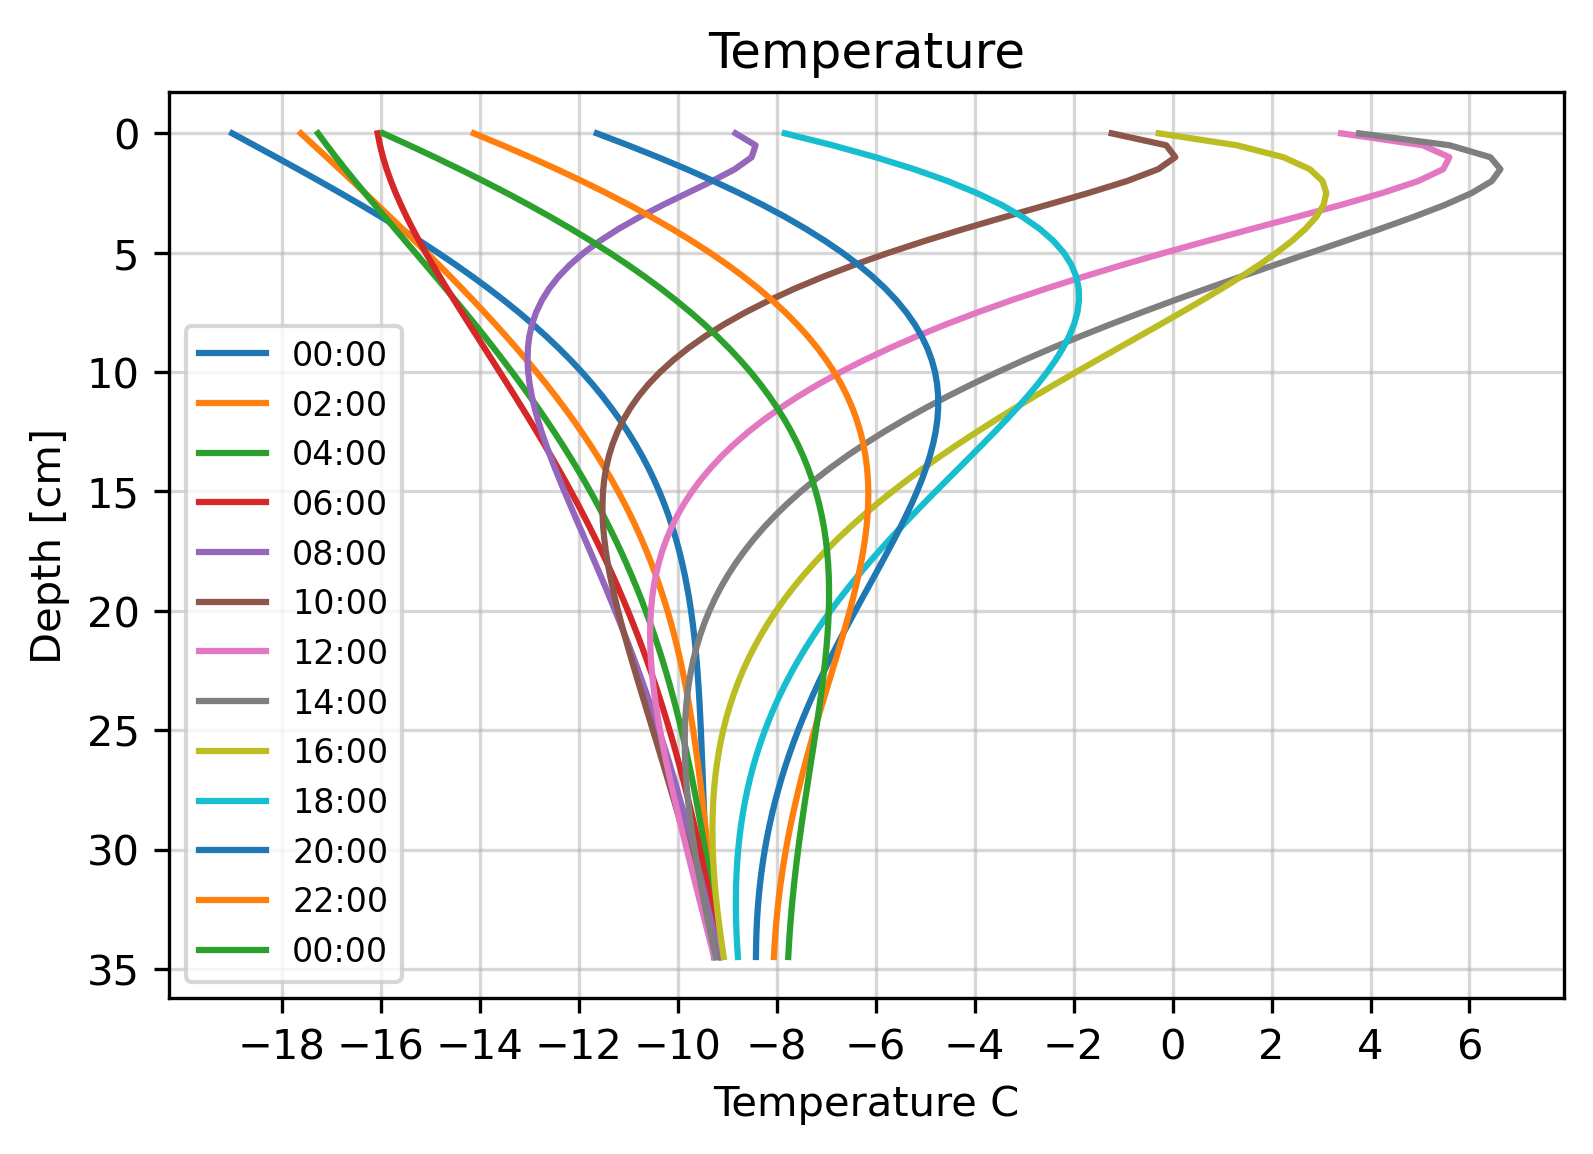
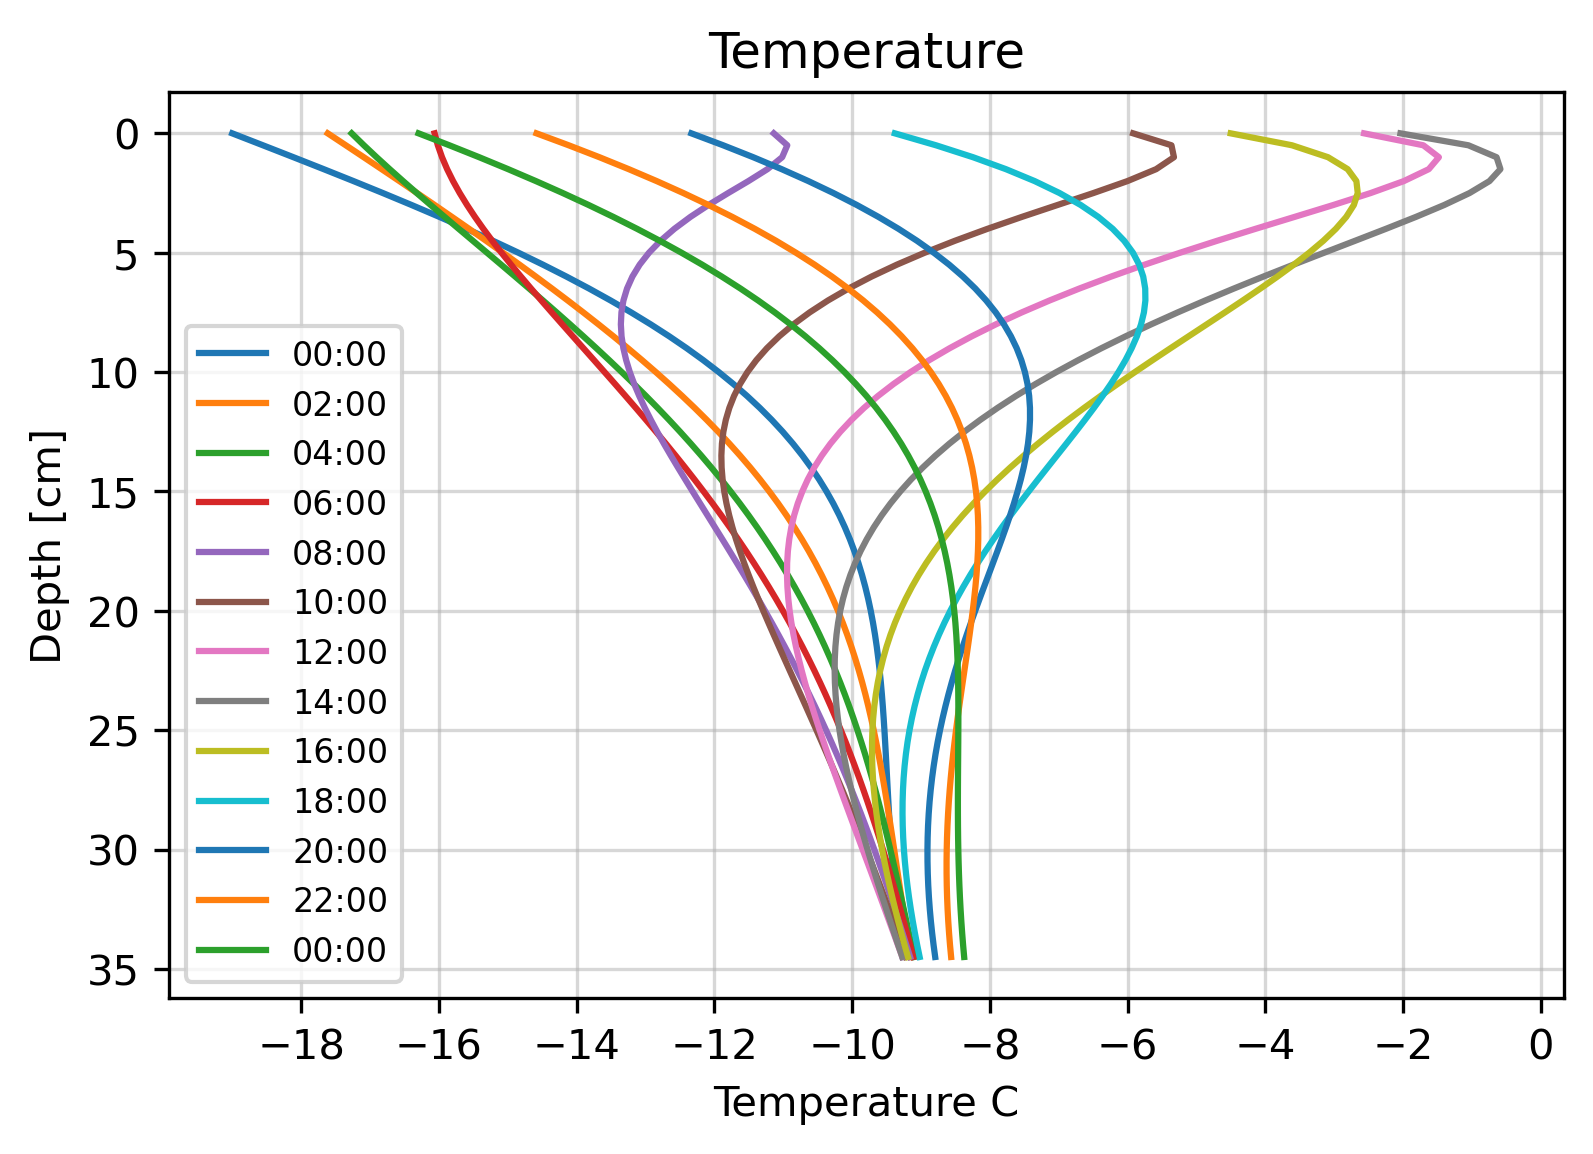
v2.0 Scenario 3
Model works and seems to recreate the results from the excel model. Here scenario 3 is simulated with 24 h spin-up.

diff --git a/Snowpack_model_main.py b/Snowpack_model_main.py
@@ -2,17 +2,16 @@
 # v2.0 Neuman boundary conditions 
 #@author: Ola Thorstensen and Thor Parmentier
 # Version update:
-# Ghost cell function works now! Need to use same IC as Simon for Sc.3 sim.
+#   - Implemented neumand boundary condition with the use of 'ghost cell'
+#   - Model v2.0 simulates Scenario 3
+# Comment: 
+#   - Currently not possible to extend runtime to more then 24 h
 
 
 import numpy as np
 import math as mt
 import matplotlib.pyplot as plt
 from datetime import datetime, timedelta
-import plotly.graph_objects as go #Whats this?
-import plotly.express as px       #Whats this?
-from plotly.subplots import make_subplots #Whats this?
-
 
 
 ############################    Parameters   ############################ 
@@ -23,7 +22,7 @@ dx = 0.005                # Dist. interval [m]
 pm = 2                   # USE INTEGERS. Plot hour interval
 b_bc = 0                 # Bottom boundary condition, fixed [degC]
 spin_up = 1              # [0] No spin-up, [1] Run spin-up
-sp_runtime = 24        # Spin-up run time [Hours]
+sp_runtime = 24*4        # Spin-up run time [Hours]
 plot_depth = 0.35        # Depth shown in plots measured from surface [m]
 
 
@@ -44,7 +43,7 @@ h = int((3600/dt))       # Number of dt increments between each whole hour [1]
     # Solar properties
 lat = 61                # Latitude [deg]
 sw_con = 1361           # Solar constant [W/m2]
-sw_peak = 100           # Observed shortwave peak [W/m2]
+sw_peak = 110           # Observed shortwave peak [W/m2]
 sw_mod = 659.8259       # Theoretical peak shortwave [W/m2]
 sw_rr = sw_mod/sw_peak  # Reduction ratio
 sw_k = 100               # Solar extinction coefficient (k)
@@ -62,6 +61,7 @@ T1_phase = 6600         # T1 phase shift [s]
 T2_amp = 3              # T2 amplitude [deg C]
 T2_avg = -31            # T2 average temp. [deg C]
 T2_phase = 6600         # T2 phase shift [s]
+
 
 ###########################    Functions    ###########################
 def Solar_rad(h_angle, iy):
@@ -88,8 +88,9 @@ def Solar_extinction(x0,x1,sw):
     x1 = x1/100 # con. cm -> m
     sw_joules = sw*dt*(1-mt.exp(-sw_k*depth)) # Radiation convertet to Joules
     solar_array[5,iy] = sw_joules
+    
     A_sw = sw_joules * sw_k                   # A-term in the SW extinction formula
-    sw_partition = ((A_sw/-sw_k) * (mt.exp(-sw_k*x1) - mt.exp(-sw_k*x0)) /cp*mass)
+    sw_partition = ((A_sw/-sw_k) * (mt.exp(-sw_k*x1) - mt.exp(-sw_k*x0))) /(cp*mass)
     return sw_partition
 
 
@@ -117,26 +118,19 @@ def Heat_flow(ix, iy, grid, neuman):
             t1 = ghost_cell[iy]
             t2 = grid[ix, iy] 
             t3 = grid[ix+1, iy]
-            T = t2 + r*((-2 * t2) + t1 + t3) 
-        
-            
+            T = t2 + r*((-2 * t2) + t1 + t3)       
         else:
             iy = iy-1                                        
             t1 = grid[ix-1, iy]
             t2 = grid[ix, iy] 
             t3 = grid[ix+1, iy]
-            T = t2 + r*((-2 * t2) + t1 + t3)      
-                        
-   
-        
+            T = t2 + r*((-2 * t2) + t1 + t3)          
     else:
         iy = iy-1                                        
         t1 = grid[ix-1, iy]
         t2 = grid[ix, iy] 
         t3 = grid[ix+1, iy]
         T = t2 + r*((-2 * t2) + t1 + t3) 
-   
-     
     return T
 
 
@@ -176,12 +170,12 @@ def Facet_growth(ix, iy):
 nx = int(depth/dx)
 ny = int((runtime * 60 * 60) / dt)
 
-
 temp = np.zeros([nx+1, ny+1], dtype=float)  # Main snowpack grid
 vp = np.zeros([nx+1, ny+1], dtype=float)    # Vapor pressure grid
 vpg = np.zeros([nx+1, ny+1], dtype=float)    # Vapor pressure gradient grid
 fgr = np.zeros([nx+1, ny+1], dtype=float)    # Facet growth rate grid
 fg =  np.zeros([nx+1, ny+1], dtype=float)    # Facet growth grid
+
 
     # Axis and time
 x = np.linspace(0, depth*100, nx+1) # Depth axis [cm]
@@ -199,8 +193,6 @@ ic = np.linspace(-16, 0, nx +1)
 temp[:, 0] = np.round(ic, 4)
 
 
-
-
     # Boundary condition
 # Bottom BC
 temp[-1,:] = b_bc * np.ones(ny+1, dtype=float)
@@ -211,15 +203,7 @@ hour_angle = np.linspace(-180, 180, int(h * 24) + 1)
 solar_array = np.zeros([6,ny+1], dtype=float) # Content: hour angle, elevation, zenith, rad, rad scaled, joules
 T_array = np.zeros([4,ny+1], dtype=float)
 
-
-
-
-
-
-
-
-    
-        
+   
 # Prints of shapes and numbers (all are numbers and none are shapes)
 print('r_number:', r)
 print('a_number:', a)
@@ -283,72 +267,36 @@ if spin_up == 1:
 
 for iy in np.arange(1, ny+1, dtype=int):
     ghost_cell[iy-1] = Sensible_longwave_heat(y[iy], temp[0,iy-1], iy)
-    
-    
-    for ix in np.arange(0, nx, dtype=int):
         
+    for ix in np.arange(0, nx, dtype=int):    
         sw_in = Solar_rad(hour_angle[iy], iy)
-        
         temp[ix, iy] = Heat_flow(ix, iy, temp, 1) + Solar_extinction(x[ix+0],x[ix+1],sw_in) 
         
+   
+for iy in np.arange(0, ny+1, dtype=int):
+    for ix in np.arange(0, nx+1, dtype=int):
+        vp[ix, iy] = Vapor_pressure(ix, iy, temp[ix, iy])
+        
+for iy in np.arange(0, ny+1, dtype=int):
+    for ix in np.arange(0, nx, dtype=int):
+        vpg[ix, iy] = Vapor_pressure_gradient(ix, iy)
+        
+for iy in np.arange(0, ny+1, dtype=int):
+    for ix in np.arange(0, nx, dtype=int):
+        fgr[ix, iy] = Facet_growth_rate(ix, iy)
+        
+for iy in np.arange(0, ny+1, dtype=int):
+    for ix in np.arange(0, nx, dtype=int):
+        fg[ix, iy] = Facet_growth(ix, iy)
+
+net_growth = np.sum(fg, axis = 1)
 
 
-
-# sw_in = 110
-# iy = 1
-# ix = 0
-
-# ghost_cell[iy-1] = Sensible_longwave_heat(y[iy], temp[0,iy-1], iy)
-# #sw_in = Solar_rad(hour_angle[iy], iy)
-        
-# temp[ix, iy] = Heat_flow(ix, iy, temp, 1) + Solar_extinction(x[ix+0],x[ix+1],sw_in)     
-
-# iy = 1
-# ix = 1
-
-# ghost_cell[iy-1] = Sensible_longwave_heat(y[iy], temp[0,iy-1], iy)
-# #sw_in = Solar_rad(hour_angle[iy], iy)
-        
-# temp[ix, iy] = Heat_flow(ix, iy, temp, 1) + Solar_extinction(x[ix+0],x[ix+1],sw_in)     
-
-       
-# iy = 1
-# ix = 2
-
-# ghost_cell[iy-1] = Sensible_longwave_heat(y[iy], temp[0,iy-1], iy)
-# #sw_in = Solar_rad(hour_angle[iy], iy)
-        
-# temp[ix, iy] = Heat_flow(ix, iy, temp, 1) + Solar_extinction(x[ix+0],x[ix+1],sw_in)        
-        
-    
-        
-    
-        
-        
-# for iy in np.arange(0, ny+1, dtype=int):
-#     for ix in np.arange(0, nx+1, dtype=int):
-#         vp[ix, iy] = Vapor_pressure(ix, iy, temp[ix, iy])
-        
-# for iy in np.arange(0, ny+1, dtype=int):
-#     for ix in np.arange(0, nx, dtype=int):
-#         vpg[ix, iy] = Vapor_pressure_gradient(ix, iy)
-        
-# for iy in np.arange(0, ny+1, dtype=int):
-#     for ix in np.arange(0, nx, dtype=int):
-#         fgr[ix, iy] = Facet_growth_rate(ix, iy)
-        
-# for iy in np.arange(0, ny+1, dtype=int):
-#     for ix in np.arange(0, nx, dtype=int):
-#         fg[ix, iy] = Facet_growth(ix, iy)
-
-# net_growth = np.sum(fg, axis = 1)
 
 ###################################################################
 
-
-
 # PLot of results:
-xticks = np.arange(6,-20,-2)
+xticks = np.arange(0,-20,-2)
 pd = int(plot_depth/dx)
 
 for p in np.arange(0, ny+1, h*pm):
@@ -364,50 +312,50 @@ plt.xticks(xticks)
 plt.show()
 
 
-# for p in np.arange(0, ny+1, h*pm):
-#     plt.plot(vp[:pd,p], x[:pd], label= f"Time {y_t[p]}") # Plot every whole hour
+for p in np.arange(0, ny+1, h*pm):
+    plt.plot(vp[:pd,p], x[:pd], label= f"Time {y_t[p]}") # Plot every whole hour
 
-# plt.gca().invert_yaxis()
-# plt.title('Vapor pressure')
-# plt.xlabel('vp [mb] ')
-# plt.ylabel('Depth [cm]')
-# plt.legend()
-# plt.grid(alpha=0.5)
-# plt.show()
+plt.gca().invert_yaxis()
+plt.title('Vapor pressure')
+plt.xlabel('vp [mb] ')
+plt.ylabel('Depth [cm]')
+plt.legend()
+plt.grid(alpha=0.5)
+plt.show()
 
 
-# for p in np.arange(0, ny+1, h*pm):
-#     plt.plot(vpg[:pd,p], x[:pd], label= f"{y_t[p]}") # Plot every whole hour
+for p in np.arange(0, ny+1, h*pm):
+    plt.plot(vpg[:pd,p], x[:pd], label= f"{y_t[p]}") # Plot every whole hour
     
-# plt.gca().invert_yaxis()
-# plt.title('Vapor pressure gradient')
-# plt.xlabel('vpg [mb/m] ')
-# plt.ylabel('Depth [cm]')
-# plt.legend()
-# plt.grid(alpha=0.5)
-# plt.show()
+plt.gca().invert_yaxis()
+plt.title('Vapor pressure gradient')
+plt.xlabel('vpg [mb/m] ')
+plt.ylabel('Depth [cm]')
+plt.legend()
+plt.grid(alpha=0.5)
+plt.show()
 
 
-# for p in np.arange(0, ny+1, h*pm):
-#     plt.plot(fgr[:pd,p], x[:pd], label= f"{y_t[p]}") # Plot every whole hour
+for p in np.arange(0, ny+1, h*pm):
+    plt.plot(fgr[:pd,p], x[:pd], label= f"{y_t[p]}") # Plot every whole hour
     
-# plt.gca().invert_yaxis()
-# plt.title('Facet growth rate')
-# plt.xlabel('Facet growth rate [nm/s] ')
-# plt.ylabel('Depth [cm]')
-# plt.legend()
-# plt.grid(alpha=0.5)
-# plt.show()
+plt.gca().invert_yaxis()
+plt.title('Facet growth rate')
+plt.xlabel('Facet growth rate [nm/s] ')
+plt.ylabel('Depth [cm]')
+plt.legend()
+plt.grid(alpha=0.5)
+plt.show()
 
 
-# plt.plot(net_growth[:pd], x[:pd])
-# plt.gca().invert_yaxis()
-# plt.title('Net facet growth')
-# plt.xlabel('Net growth [mm] ')
-# plt.ylabel('Depth [cm]')
-# #plt.legend()
-# plt.grid(alpha=0.5)
-# plt.show()
+plt.plot(net_growth[:pd], x[:pd])
+plt.gca().invert_yaxis()
+plt.title('Net facet growth')
+plt.xlabel('Net growth [mm] ')
+plt.ylabel('Depth [cm]')
+#plt.legend()
+plt.grid(alpha=0.5)
+plt.show()
 
 
 
